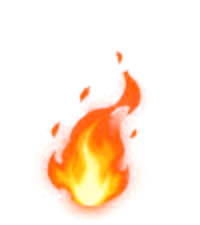
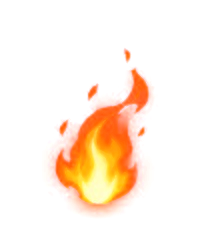
Relay Strike: free follow-up hit when a pushed foe stops next to an ally (13.40); flame frames aligned on one base point so they stop jumping (1.42)

Changed region(s): [[0.21, 0.28, 0.78, 0.9644], [0.57, 0.2178, 0.66, 0.28]]

diff --git a/src/scenes/BattleScene.js b/src/scenes/BattleScene.js
@@ -18,6 +18,7 @@ import { startNextTurn, previewTurns } from '../turnOrder.js';
 import { getHitChance, getDamage, getTargetsInRange, inReach, rollAttack, usesCloseWeapon, holdsDagger, distance, isDistracted, chainTarget, chainDamage, setHeightLookup, heightAccuracy, hasClearShot, drenchedEffect } from '../combat.js';
 import terrain from '../data/terrain.json'; // height rules: accuracy, falls, pushes, line of sight
 import conditions from '../data/conditions.json'; // stun, disoriented
+import relayRules from '../data/relay.json'; // Relay Strike numbers
 import { chooseMoveTile, isCaster } from '../enemyAi.js';
 import { smokeCloud } from '../smokeArt.js';
 import { sandImpact, lightningStrike, verseAura, speedStreak, slowCast, slowAura, swiftAura, swiftTrail, furyAura, bulwarkAura, fxMode, setFxMode, fxSetActive, fxWatchFrameRate, goldDissolve, hasSonicArt, sonicSpear, sonicTrail, sonicRing, sonicImpact, earthBurst, fireball, flameBurst, burnAura, empowerAura, elementRise, enchantChant, enchantSigil, enchantLand, enchantAura, verseKinds, stepEffect, hitEffect, raiseSpike, crumbleSpike, elementOrb, elementHold, clashSparks, clashRing, decisiveBurst, fxEmitter } from '../spellArt.js';
@@ -187,6 +188,7 @@ export default class BattleScene extends Phaser.Scene {
     this.busy = false;              // true while something is moving or attacking
     this.battleOver = false;        // true once one side has been wiped out
     this.turnCount = 0;             // how many turns have been played
+    this.relayQueue = null;         // pushes made by the skill being cast, for Relay Strike (see collectRelays)
     this.highlights = [];           // the colored squares currently on screen
     this.reachableKeys = new Set(); // tiles the unit may walk to, written like "3,5"
     this.targetsInRange = [];       // the enemies the active hero can attack
@@ -4158,7 +4160,88 @@ export default class BattleScene extends Phaser.Scene {
       if (loser.hp === 0) this.defeat(loser);
       else this.interrupt(loser); // a fall or a slam breaks a trance or an aim too
     }
+    if (this.relayQueue && (path.length > 0 || (fall && fall.slam)) && loser.hp > 0) this.relayQueue.push({ unit: loser, by: winner }); // Relay Strike may follow
     return { path, fall };
+  }
+
+  // ---------- Relay Strike (Suleiman's spec, roadmap 13.40) ----------
+  // A skill that pushes starts collecting its pushes here; when the skill is
+  // done the wrapped onDone plays the free follow-up strikes, then carries on.
+  collectRelays(onDone) {
+    this.relayQueue = [];
+    return () => {
+      const queue = this.relayQueue || [];
+      this.relayQueue = null;
+      if (queue.length === 0 || this.battleOver) return onDone();
+      this.playRelays(queue, onDone);
+    };
+  }
+
+  // Can this ally relay-strike this foe now? It must be on the pusher's side,
+  // next to the foe, free (not in a clash, stunned or meditating), within reach
+  // of its weapon, and not have relayed already this round (one full cycle of turns).
+  canRelay(ally, foe) {
+    if (!ally.alive || ally.isDecoy || ally.side === foe.side) return false;
+    if (ally.engagedWith || isStunned(ally) || ally.meditating) return false;
+    if (distance(ally, foe) !== 1 || getTargetsInRange(ally, [foe]).length === 0) return false;
+    const cycle = this.units.filter((u) => u.alive).length;
+    return ally.relayTurn === undefined || this.turnCount - ally.relayTurn >= cycle;
+  }
+
+  // Works out who relays for each push, then plays them one after another.
+  playRelays(queue, done) {
+    const steps = []; // { ally, foe, nth }
+    for (const { unit: foe, by } of queue) {
+      if (!foe.alive) continue;
+      let nth = 0;
+      for (const ally of this.units) {
+        if (nth >= relayRules.perPush) break;
+        if (ally === by || ally.side !== by.side || !this.canRelay(ally, foe)) continue;
+        ally.relayTurn = this.turnCount; // used up for this round
+        steps.push({ ally, foe, nth });
+        nth++;
+      }
+    }
+    const next = (i) => {
+      if (i >= steps.length) return done();
+      const { ally, foe, nth } = steps[i];
+      if (!ally.alive || !foe.alive) return next(i + 1);
+      this.relayStrike(ally, foe, nth, (outcome) => (outcome ? this.endBattleFromRelay(outcome) : next(i + 1)));
+    };
+    this.busy = true;
+    next(0);
+  }
+
+  endBattleFromRelay(outcome) {
+    this.battleOver = true;
+    this.busy = false;
+    this.showResult(outcome);
+  }
+
+  // One free strike: a "Relay!" callout, a short dash at the foe, the hit, back to place.
+  relayStrike(ally, foe, nth, onDone) {
+    const share = (isOffBalance(foe) ? relayRules.offBalanceShare : relayRules.share) * (nth > 0 ? relayRules.secondShare : 1);
+    const landed = this.landHit(foe, Math.max(1, Math.round(getDamage(ally, foe) * share)));
+    foe.hp = Math.max(0, foe.hp - landed.damage);
+    if (foe.hp === 0) this.defeat(foe);
+    const outcome = this.checkBattleEnd();
+    this.refreshButtons();
+    const dx = foe.view.x - ally.view.x;
+    const dy = foe.view.y - ally.view.y;
+    this.faceToward(ally, dx, dy);
+    this.floatText(ally, 'Relay!', '#ffd27a', { rise: 44, pop: true });
+    play('whoosh');
+    this.showPose(ally, 'attack', dx);
+    const home = { x: ally.view.x, y: ally.view.y };
+    this.tweens.add({ targets: ally.view, x: home.x + dx * 0.45, y: home.y + dy * 0.45, duration: 110, ease: 'Quad.easeIn', delay: 120,
+      onComplete: () => {
+        this.showImpact(ally, foe, { hit: true, damage: landed.damage, note: landed.note }, dx, foe.hp === 0);
+        this.tweens.add({ targets: ally.view, x: home.x, y: home.y, duration: 160, delay: 90, ease: 'Quad.easeOut',
+          onComplete: () => {
+            if (ally.alive) this.showStanding(ally);
+            this.time.delayedCall(foe.hp === 0 ? 700 : 260, () => onDone(outcome));
+          } });
+      } });
   }
 
   // Shows the end of a push: a fall (a thud, dust, and the damage) and/or a
@@ -4825,6 +4908,7 @@ export default class BattleScene extends Phaser.Scene {
   // back a tile, away from the thrower (off a ledge, it falls). A knock that
   // carries it out of a clash breaks the clash.
   castThrow(thrower, target, spell, onDone) {
+    onDone = this.collectRelays(onDone); // Relay Strike: allies hit pushed foes after the skill
     const result = rollAttack({ ...thrower, range: spell.range }, target);
     const dx = target.view.x - thrower.view.x;
     this.faceToward(thrower, dx, target.view.y - thrower.view.y);
@@ -4952,6 +5036,7 @@ export default class BattleScene extends Phaser.Scene {
   // nobody can walk through it and it stops arrows (setHeightLookup). If the
   // foe couldn't be moved, the spike breaks against it and no wall is left.
   castEarthDrive(user, target, spell, onDone) {
+    onDone = this.collectRelays(onDone); // Relay Strike: allies hit pushed foes after the skill
     const tile = { col: target.col, row: target.row };
     const dx = target.view.x - user.view.x;
     this.faceToward(user, dx, target.view.y - user.view.y);
@@ -5024,6 +5109,7 @@ export default class BattleScene extends Phaser.Scene {
   // numbers are worked out first, like Earth Drive; the picture catches up.
   // Drawn with his attack pictures until Suleiman sends clap art.
   castClap(user, spell, onDone) {
+    onDone = this.collectRelays(onDone); // Relay Strike: allies hit pushed foes after the skill
     const foes = this.clapFoes(user);
     const lead = foes[foes.length - 1]; // the nearest foe: he faces it
     const dx = lead ? lead.view.x - user.view.x : 1;
@@ -5287,6 +5373,7 @@ export default class BattleScene extends Phaser.Scene {
   //   stun      : Blitz (Swiftness). Stunned for a turn.
   // The charge uses up the rest of the unit's steps.
   castIntercept(charger, target, spell, onDone) {
+    onDone = this.collectRelays(onDone); // Relay Strike: allies hit pushed foes after the skill
     const spot = this.chargeTile(charger, target, spell);
     if (!spot) {
       onDone();
@@ -5581,6 +5668,7 @@ export default class BattleScene extends Phaser.Scene {
   }
 
   castSonicJavelin(user, target, spell, onDone) {
+    onDone = this.collectRelays(onDone); // Relay Strike: allies hit pushed foes after the skill
     const plan = this.javelinForm(user, target, spell);
     const results = []; // { unit, damage, note, pushed }
     const strike = (u, damage, push) => {

diff --git a/dev/tools/align_flame.py b/dev/tools/align_flame.py
@@ -1,0 +1,40 @@
+# Roadmap 1.42: the 8 flame frames (6.41) jumped around when they looped, because the flame drifted
+# sideways and up and down inside each frame's cell. This puts all 8 frames on one same-size canvas with
+# the flame's base at the SAME bottom-centre point. Run it in place (safe to run twice):
+#   ~/.fabien-tools/venv/bin/python dev/tools/align_flame.py <contact sheet out.png>
+# The base is found from the picture itself: the lowest row that holds real flame (a quarter of the widest row),
+# and the middle of the flame over the 24 rows above it. Then each frame is shifted so that point lands on
+# (ANCHOR_X, ANCHOR_Y). boardArt.js sets the sprite origin to the same point (FLAME_ORIGIN_X / FLAME_ORIGIN_Y).
+import sys
+import numpy as np
+from PIL import Image
+
+N, W, H = 8, 200, 225
+ANCHOR_X, ANCHOR_Y = 100, 205          # base of the fire on the canvas
+frames = []
+for i in range(1, N + 1):
+    im = Image.open(f'public/art/fx/flame_f{i}.png').convert('RGBA')
+    a = np.asarray(im)[..., 3].astype(float)
+    rows = a.sum(1)
+    base_y = int(np.where(rows >= 0.25 * rows.max())[0].max())
+    seg = a[max(0, base_y - 24):base_y + 1]
+    base_x = (seg * np.arange(W)).sum() / seg.sum()
+    dx, dy = round(ANCHOR_X - base_x), ANCHOR_Y - base_y
+    canvas = Image.new('RGBA', (W, H), (0, 0, 0, 0))
+    canvas.paste(im, (dx, dy))
+    assert canvas.getbbox() and np.asarray(canvas)[..., 3].sum() > 0.99 * a.sum(), 'flame cut off by the canvas edge'
+    canvas.save(f'public/art/fx/flame_f{i}.png')
+    frames.append(canvas)
+    print(i, 'base was', round(base_x, 1), base_y, 'shift', dx, dy)
+
+# contact sheet: the frames side by side with the anchor column and base row drawn in green
+sheet = Image.new('RGB', (W * N, H), (38, 34, 46))
+for i, f in enumerate(frames):
+    sheet.paste(f, (i * W, 0), f)
+px = sheet.load()
+for i in range(N):
+    for y in range(H):
+        px[i * W + ANCHOR_X, y] = (0, 255, 0)
+    for x in range(W):
+        px[i * W + x, ANCHOR_Y] = (0, 255, 0)
+sheet.save(sys.argv[1])

diff --git a/dev/browser/flame142_sheet.py b/dev/browser/flame142_sheet.py
@@ -1,0 +1,14 @@
+# Joins flame142.cjs clips into one contact sheet: row 1 brazier frames 1 to 8, row 2 lamp frames 1 to 8.
+# python3 dev/browser/flame142_sheet.py <dir> <out.png>
+import sys
+from PIL import Image
+d = sys.argv[1]
+first = Image.open(f'{d}/clip_brazier_1.png'); w, h = first.size
+S = 2
+sheet = Image.new('RGB', (w * 8 * S, h * 2 * S))
+for r, kind in enumerate(['brazier', 'lamp']):
+    for fr in range(1, 9):
+        try: im = Image.open(f'{d}/clip_{kind}_{fr}.png').convert('RGB')
+        except FileNotFoundError: continue
+        sheet.paste(im.resize((w * S, h * S), Image.LANCZOS), ((fr - 1) * w * S, r * h * S))
+sheet.save(sys.argv[2])

diff --git a/docs/ROADMAP.md b/docs/ROADMAP.md
@@ -55,6 +55,7 @@ Rules for Claude:
 - [ ] 1.39 Blender fire and water TEST (Baiyee 9 Nov, test only, game unchanged). Files in Fabien Blueprint/BLENDER TESTS/fire_water/ (frames per loop, contact_sheet.png) and BLENDER TESTS/fire_water.blend (same camera angle as the spike; 1 tile = 86 game px, frames at 4x). Built: brazier flame 12 frames (128x192, on black, nested orange/gold/white-core shells, tongues, 3 sparks), lamp flame 12 frames (64x112, smaller, 1 tongue, 1 spark, no baked glow), waterfall 12 frames (one level tall, 256x224) and a tall version matching the cavern's falls (about 2.5 levels, 256x352), transparent; splash ring loop 12 frames (272x168, three ripples). All loop seamlessly. To decide: wire into the game (flame() and drawLamp() in boardArt.js, drawWaterfall(); the brazier picture already has a painted flame, so the new fire needs that painted out or laid over it), flip the left-face fall for right faces. REVIEW 9 Nov: fire loop REJECTED (too cartoonish), Suleiman will draw the fire himself; water kept and reworked in 1.41.
 - [x] 1.40 Ritual lamps must read as real fire (Baiyee 9 Nov): a small flame in the lamp bowl with only a soft glow, no floating ball of light. Small flame loop rendered (1.39); wiring into drawLamp and dropping the big round glow comes after the test is approved. Now waits for Suleiman's own flame drawing (the Blender flame is dropped). Update 9 Nov 21:13: chat 1308 (eight flame frames on black) may be the flame drawing it waits for (6.41). Built (9 Nov): every lamp now plays Suleiman's flame loop at small size (about 0.45 of the brazier flame), sitting in the bowl, with only a low soft glow (alpha 0.3, small); the big round glow is gone. Tested in the browser (laptop, phone, portrait) and n41.
 - [ ] 1.41 Waterfall v2 TEST (Baiyee 9 Nov, test only). Built: thinner, fainter streaks so the rock shows through, darker teal to match the pools, warm torch tint on the two edges, no hard outline at the top (the sheet fades in under the lip), foam blobs replaced by soft mist puffs and 6 small droplets, splash ring softer and fainter (teal-white). Tall (256x352, matches the cavern's 2.5-level falls) and one-level (256x224) versions, 12 frames each, plus ring (272x168), in BLENDER TESTS/fire_water/ (old ones kept as *_v1); contact_sheet.png compares with the game. To decide: wire into drawWaterfall (flip for right faces).
+- [x] 1.42 Flames jump around as they play (Baiyee 10 Nov, bug in 6.41). Cause found: the crop box was the same for every frame, but in Suleiman's source the flame drifts inside each cell (base x went from 122 to 84 and base row 204 to 210 across the 8 frames), so the looped flame slid sideways. Built 10 Nov: dev/tools/align_flame.py puts all 8 frames on one 200 by 225 canvas with the flame's base at the same bottom-centre point (100, 205), which the sprite origin (0.5, 0.91) already matches, so no code change in boardArt.js. Checked with dev/browser/flame142.cjs on a phone (iPhone 13): all 8 frames of a brazier and of a lamp, before next to after; the flame now stays centred in the bowl on every frame, and the small lamp flames sit inside their bowls, not beside them.
 - [x] 1.34 Smoke Bomb cloud looks bad. REDONE 8 Nov (Baiyee, after the particle version read as an orange haze, screenshot 16:08): back to Suleiman's 6-stage cloud and 4 dissipating frames, cut with rembg then cleaned (dev/tools/make_smoke_rembg.py: stage numbers cropped, floor tile and its outline wiped with the tile finder from make_smoke.py, flat-and-tile-coloured keying, foot faded). Drawn normally (not as light) at 82% so it stays grey-white in the warm cave, centred on the archer's tile, 1.25 tiles wide, about head height; a few grey puffs drift off the edges (8 at most, normal blend). Old and new cuts compared on a contact sheet; phone screenshot dev/browser/nov13.cjs looked at: reads as smoke. Small leftovers: a ragged foot on stages 5 and 6 and a thin sliver near the clear frames' corners, hidden at 82% on the board. make_nov13_smoke.py removed. First version (superseded): Built 8 Nov: the growing cloud is particles now (src/smokeArt.js: soft grey puffs from a bank, the cloud at 65% alpha, drift and breath, puffs stop at the clear), since the cut frames kept a grey tile wedge under them after feathering. The 4 dissipating frames play while the cloud fades, tinted by dev/tools/make_nov13_smoke.py. Tests n47 updated. Phone screenshot: dev/browser/nov13.cjs (not yet looked at). Full suite 44 of 44. Original text: Smoke Bomb cloud looks bad (Baiyee, 8 Nov, after 13.26): a flat, opaque white blob with a hard diamond edge at the bottom (left over from the floor tile), too bright for the cave, and static. Fix: (1) remove the diamond edge and feather the bottom into a soft fade; (2) warm grey tint, 60 to 70% opacity, so the tile and units show through; (3) alive: the 6 growing frames play when thrown, then the full cloud drifts and breathes gently, with a few soft smoke puffs (fxEmitter, the 'fx-dot' scaled up, grey, low alpha) rolling off it; (4) when it clears, the dissipating frames play while fading. If his pictures still look pasted on, use a particle-only cloud instead.
 
 ## Phase 2: battle screen restyle (newest UI MOCKUP, his component art) - DONE
@@ -338,6 +339,7 @@ Status art batch notes: icons in public/art/icons (64x64), cards in public/art/c
 - [ ] 13.37 Tayo's Sonic Clap is renamed Sonic Burst and keeps the punch as its animation (Baiyee voice note 9 Nov 17:23: the punch looks good as it is; Suleiman 17:24: the name could change, "sonic burst or sonic shock"). Picked: Sonic Burst (his first name, shorter). Change the name in spells.json and everywhere it is shown; the punch pictures (6.39) take the clap pose. Not built.
 - [ ] 13.38 Sonic Burst as a combo with Earth Drive (Suleiman 9 Nov 18:20: use Sonic Burst as the follow-up on his next turn, and the rocks from Earth Drive explode for extra damage; no separate follow-up skill). Baiyee's 17:26 voice note wanted a punch at the rocks instead; Baiyee said "make sense", so Suleiman's version is taken. Needs: when Sonic Burst lands, each raised rock nearby explodes for extra damage. Baiyee will test the look in Blender first (not started). Not built.
 - [ ] 13.39 VFX for Sonic Burst (Baiyee 9 Nov 17:23): several frames of the club coming together, the attack effects, and sound waves or something similar. Waiting on Suleiman for sheets; the shockwave ring 6.40 is the first one. Effect sheets go on black (13.35).
+- [x] 13.40 Relay Strike (Suleiman's spec, passed on by Baiyee 10 Nov; the roadmap had no entry, so this one is new). When a foe is pushed, pulled or shoved and stops next to an ally of the pusher, that ally gets a free hit (a reaction): 60 percent damage, full if the foe is Off-Balance; one per ally per round (a full cycle of turns), two at most per push with the second at half strength; not if the ally is in a clash, stunned, meditating, or cannot reach the foe (a bow at point blank); a push toward an ally never harms it. Both sides. Built 10 Nov: src/data/relay.json (numbers), BattleScene collectRelays / canRelay / playRelays / relayStrike (a "Relay!" callout, a short dash-in and back), pushLoser queues the push; wired into Earth Drive, Sonic Burst (clap), Shield Ram and the other pushing skills (Intercept, Sonic Javelin, Spear throw). Test n51 (24 checks, in run_all.sh). Not wired: clash pushes, Thunderclap and the Swiftness gust; no pull skill exists yet, a future one only needs to call pushLoser or add to relayQueue.
 - Feedback, all positive (no change asked): "too wet to burn" (Drenched works, 1 Nov 20:55); "Fury drive! Nice one" 20:57; played a full round, "so close to a fully fleshed out combat system" 21:04; combat "really fun now" 22:14; loved Sudeen's herb jumping across the screen 22:59; loves the new Fury animation (2 Nov 15:27); Sudeen "grows on me" 2 Nov 11:59; Slow's casting (13.10).
 
 ## Skeleton animation
